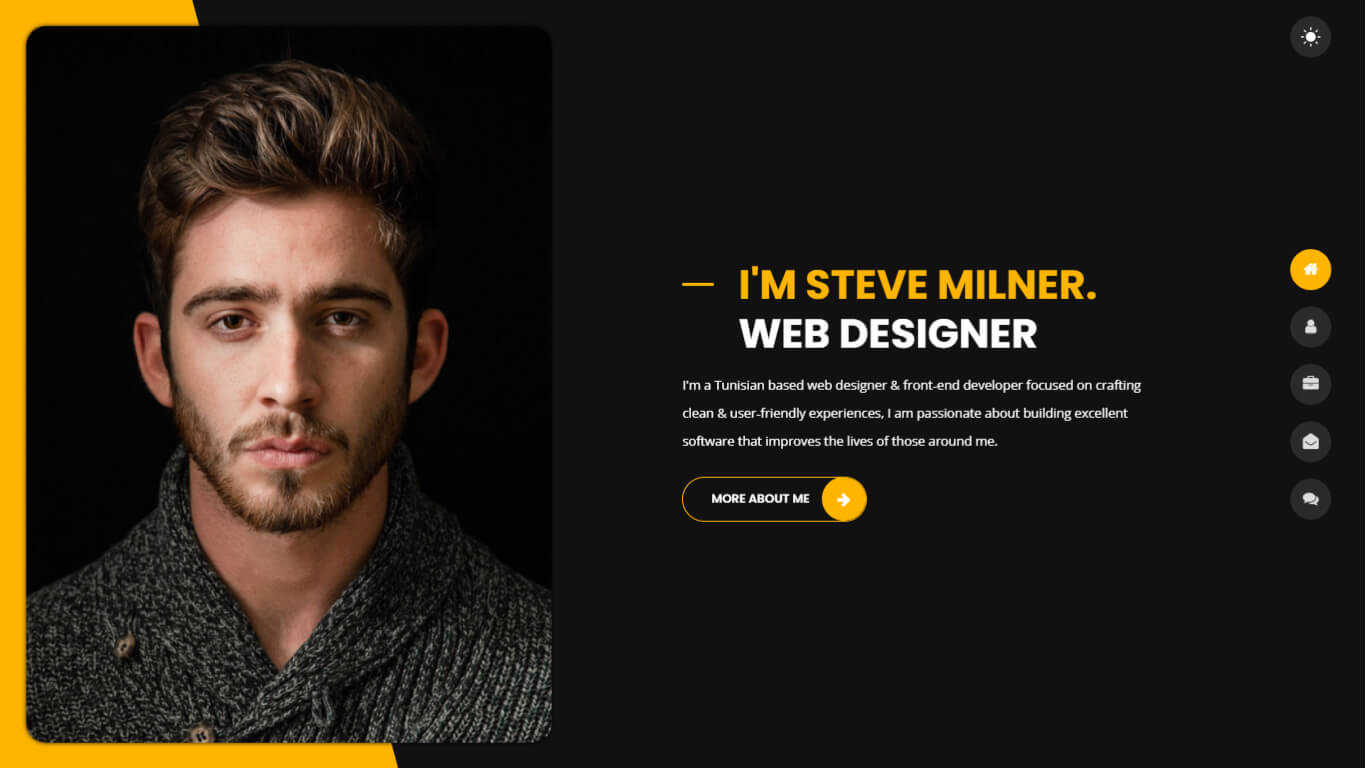
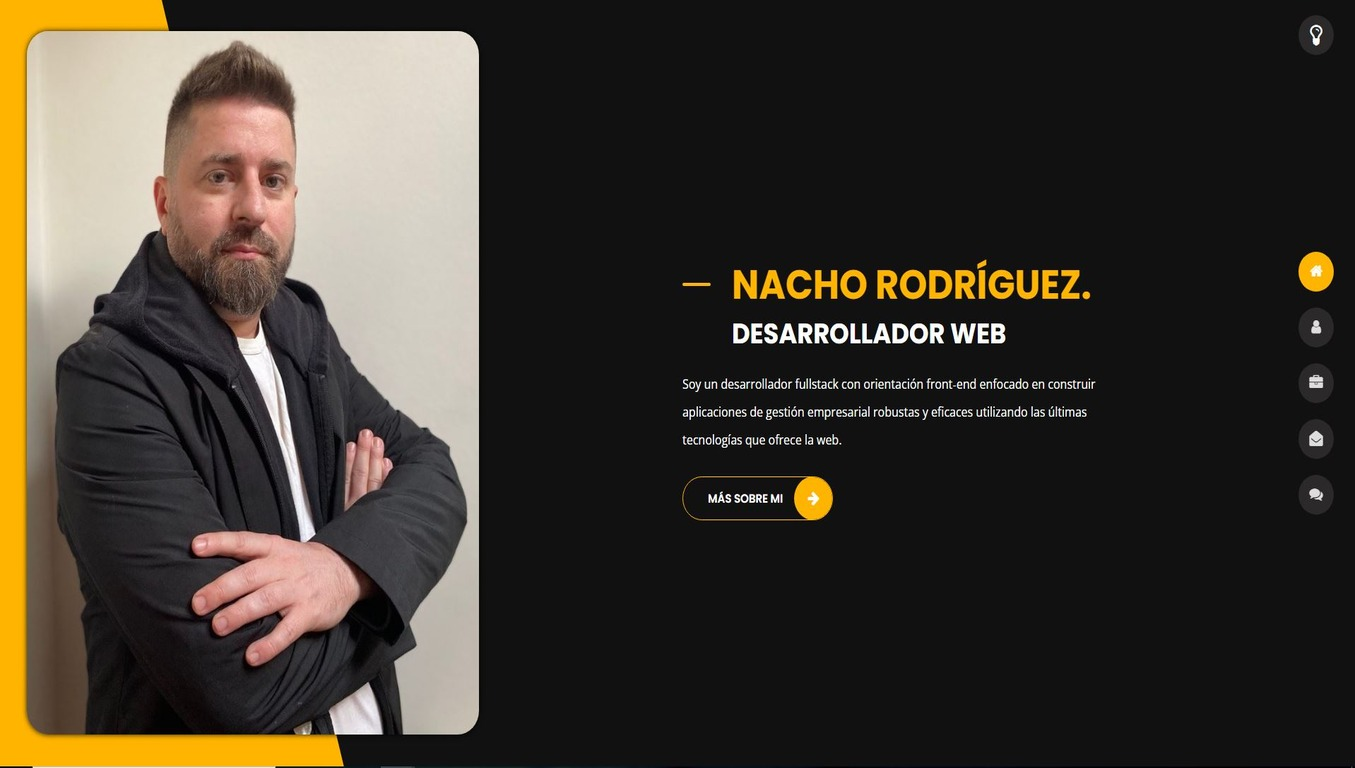
Despliegue en producción

diff --git a/src/views/MainPreview.vue b/src/views/MainPreview.vue
@@ -1,9 +1,9 @@
 <template>
   <div>
-    <section class="banner text-center">
+    <section class="text-center footer_copyright">
       <div class="content">
-        <h1>Tunis</h1>
-        <h2>Personal Portfolio VueJS 3 Template</h2>
+        <h1>Nacho Rodríguez</h1>
+        <h2>Portfolio personal</h2>
       </div>
     </section>
     <!-- {/* End .banner */} -->
@@ -23,7 +23,6 @@
               <div class="bg_container">
                 <router-link
                   :to="preview.routerPath"
-                  target="_blank"
                   rel="noreferrer"
                 >
                   <img
@@ -39,10 +38,9 @@
                   <router-link
                     class="btn"
                     :to="preview.routerPath"
-                    target="_blank"
                     rel="noreferrer"
                   >
-                    view demo
+                    Elegir
                   </router-link>
                 </h6>
               </div>
@@ -53,42 +51,18 @@
     </section>
     <!-- {/* End .Demo */} -->
 
-    <footer>
-      <div class="go_purchase">
-        <h6 data-aos="fade-up" data-aos-duration="1200">
-          You are at the right step now
-        </h6>
-        <h3 data-aos="fade-up" data-aos-duration="1200" data-aos-delay="100">
-          Purchase Tunis & Build Your Faster
-          <span class="theme-color">VueJS 3</span> &amp;
-          <span class="theme-color">Bootstrap 5 </span> Based Portfolio
-          Template.
-        </h3>
-        <div data-aos="fade-up" data-aos-duration="1200" data-aos-delay="200">
-          <a
-            class="button"
-            href="https://themeforest.net/user/ib-themes/portfolio"
-            target="_blank"
-            rel="noreferrer"
-          >
-            <span class="button-text"> Purchase Now</span>
-            <span class="button-icon fa fa-arrow-right"></span>
-          </a>
-        </div>
-      </div>
-      <!-- {/* End go_purchase */} -->
-
+    <footer>      
       <div class="text-center footer_copyright">
-        <h6>Tunis - Personal Portfolio VueJS 3 Template</h6>
+        <h6>Este portfolio está desarrollado utilizando HTML, CSS, SASS, JavaScript y Vue3.js</h6>
         <h5>
-          &copy; {{ new Date().getFullYear() }} Designed with
-          <span class="heart">&#10084;</span> by
+          &copy; {{ new Date().getFullYear() }} Diseñado con
+          <span class="heart">&#10084;</span> por
           <a
-            href="https://themeforest.net/user/ib-themes"
+            href="https://nacho-rodriguez.com"
             target="_blank"
             rel="noreferrer"
           >
-            ib-themes.
+            nacho rodríguez.
           </a>
         </h5>
       </div>
@@ -99,20 +73,24 @@
 
 <script>
 export default {
+  name: "MainPreview",
+  meta: {
+      title: "Nacho Rodríguez || Portfolio",
+    },
   setup() {
     return {
       previewDemo: [
         {
           id: 1,
           img: require(`@/assets/images/intro/dark.jpg`),
-          title: "Dark Demo Portfolio",
+          title: "Portfolio fondo oscuro",
           routerPath: "/home-dark",
           delayAnimation: "0",
         },
         {
           id: 2,
           img: require(`@/assets/images/intro/light.jpg`),
-          title: "Light Demo Portfolio",
+          title: "Portfolio fondo claro",
           routerPath: "/home-light",
           delayAnimation: "50",
         },

diff --git a/src/views/HomeLight.vue b/src/views/HomeLight.vue
@@ -1,9 +1,10 @@
 <template>
   <main class="yellow">
-    <div className="demo-sticker" title="Swich Dark">
-      <a href="/">
-        <i className="fa fa-moon-o" aria-hidden="true"></i>
-      </a>
+    <div className="demo-sticker" title="Fondo Oscuro">
+      <a
+        ><router-link :to="{ name: 'HomeDark' }" rel="noreferrer">
+          <i className="fa fa-moon-o" aria-hidden="true"></i></router-link
+      ></a>
     </div>
     <!-- End switcher -->
 
@@ -105,8 +106,9 @@
                 Contacta conmigo !
               </h3>
               <p class="open-sans-font mb-4">
-                Puedes encontrarme a través de los siguientes medios. Siempre estoy abierto
-                a discutir sobre nuevos proyectos, ideas u oportunidades.
+                Puedes encontrarme a través de los siguientes medios. Siempre
+                estoy abierto a discutir sobre nuevos proyectos, ideas u
+                oportunidades.
               </p>
               <AddressInfo />
               <!-- {/* End Address */} -->
@@ -134,9 +136,9 @@
         </div>
         <div class="container">
           <!-- {/* Articles Starts */} -->
-          <div class="row pb-50">
+          <!-- <div class="row pb-50">
             <BlogInfo />
-          </div>
+          </div> -->
           <!-- {/* Articles Ends */} -->
         </div>
       </div>
@@ -151,17 +153,21 @@ import IndexMain from "@/components/about/IndexMain.vue";
 import AddressInfo from "@/components/AddressInfo.vue";
 import ContactInfo from "@/components/ContactInfo.vue";
 import SocialInfo from "@/components/SocialInfo.vue";
-import BlogInfo from "@/components/blog/BlogInfo.vue";
+//import BlogInfo from "@/components/blog/BlogInfo.vue";
 import PortfolioInfo from "@/components/portfolio/PortfolioInfo.vue";
 
 export default {
+  name: "HomeLight",
+  meta: {
+      title: "Nacho Rodríguez || Portfolio",
+    },
   components: {
     HeroBanner,
     IndexMain,
     AddressInfo,
     ContactInfo,
     SocialInfo,
-    BlogInfo,
+    //BlogInfo,
     PortfolioInfo,
   },
   data() {

diff --git a/src/views/HomeDark.vue b/src/views/HomeDark.vue
@@ -1,9 +1,10 @@
 <template>
   <main class="yellow">
-    <div className="demo-sticker" title="Swich Light">
-      <a href="/home-light">
-        <i className="fa fa-lightbulb-o" aria-hidden="true"></i>
-      </a>
+    <div className="demo-sticker" title="Fondo Blanco">
+      <a
+        ><router-link :to="{ name: 'HomeLight' }" rel="noreferrer">
+          <i className="fa fa-lightbulb-o" aria-hidden="true"></i></router-link
+      ></a>      
     </div>
     <!-- End Sticker -->
 
@@ -134,9 +135,9 @@
         </div>
         <div class="container">
           <!-- {/* Articles Starts */} -->
-          <div class="row pb-50">
+          <!-- <div class="row pb-50">
             <BlogInfo />
-          </div>
+          </div> -->
           <!-- {/* Articles Ends */} -->
         </div>
       </div>
@@ -151,21 +152,32 @@ import IndexMain from "@/components/about/IndexMain.vue";
 import AddressInfo from "@/components/AddressInfo.vue";
 import ContactInfo from "@/components/ContactInfo.vue";
 import SocialInfo from "@/components/SocialInfo.vue";
-import BlogInfo from "@/components/blog/BlogInfo.vue";
+//import BlogInfo from "@/components/blog/BlogInfo.vue";
 import PortfolioInfo from "@/components/portfolio/PortfolioInfo.vue";
 
 export default {
+  name: "HomeDark",
+  meta: {
+      title: "Nacho Rodríguez || Portfolio",
+    },
   components: {
     HeroBanner,
     IndexMain,
     AddressInfo,
     ContactInfo,
     SocialInfo,
-    BlogInfo,
+    //BlogInfo,
     PortfolioInfo,
   },
   data() {
     return {};
   },
+  mounted() {
+    document.body.classList.add("dark");
+    document.body.classList.remove("light");
+  },
+  unmounted() {
+    document.body.classList.remove("light");
+  },  
 };
 </script>

diff --git a/src/router/index.js b/src/router/index.js
@@ -1,44 +1,44 @@
 import { createRouter, createWebHistory } from "vue-router";
-//import Preview from "../views/MainPreview.vue";
+import Preview from "../views/MainPreview.vue";
 import NotFound from "../views/PageNotFound.vue";
 
 const routes = [
- /*  {
+   {
     path: "/",
     name: "Preview",
     component: Preview,
     meta: {
-      title: "Preview || Tunis VueJS 3 Personal Portfolio Template",
+      title: "Nacho Rodríguez || Portfolio",
     },
-  }, */
+  },
   {
-    path: "/",
+    path: "/home-dark",
     name: "HomeDark",
-    component: () => import("../views/HomeDark.vue"),
     meta: {
-      title: "Nacho Rodríguez || Portfolio personal",
+      title: "Nacho Rodríguez || Portfolio",
     },
+    component: () => import("../views/HomeDark.vue")
   },
   {
     path: "/home-light",
     name: "HomeLight",
-    component: () => import("../views/HomeLight.vue"),
     meta: {
-      title: "Nacho Rodríguez || Portfolio personal",
+      title: "Nacho Rodríguez || Portfolio",
     },
+    component: () => import("../views/HomeLight.vue")    
   },
   {
     path: "/contact",
     component: () => import("@/components/portfolio/ContactForm.vue"),
     meta: {
-      title: "Nacho Rodríguez || Portfolio personal",
+      title: "Nacho Rodríguez || Portfolio",
     },
-  },    
+  },
   {
     path: "/:catchAll(.*)",
     component: NotFound,
     meta: {
-      title: "Not Found || Nacho Rodríguez - Portfolio personal",
+      title: "Not Found || Nacho Rodríguez - Portfolio",
     },
   },
 ];

diff --git a/src/assets/scss/main/_preview.scss b/src/assets/scss/main/_preview.scss
@@ -16,7 +16,7 @@ body {
 }
 .banner .content {
   background-color: #42b883;
-  padding: 50px 15px 30px;
+  padding: 40px 15px 30px;
   width: 100%;
   h2 {
     text-transform: capitalize;
@@ -70,7 +70,7 @@ body {
   background-color: #42b883 !important;
 }
 .demo {
-  padding: 175px 0 135px;
+  padding: 7.15% 0 7.15%;
   min-height: 560px;
   background: #ffffff;
   @media screen and (max-width: 768px) {
@@ -92,11 +92,7 @@ h2 {
 }
 .heading {
   font-size: 30px;
-  margin-bottom: 80px;
   font-weight: 700;
-}
-.anchor {
-  margin-bottom: 40px;
 }
 .footer_copyright {
   background-color: #222222;
@@ -144,46 +140,6 @@ h2 {
 
 .bg_container img {
   border-radius: 5px;
-}
-
-.go_purchase {
-  width: 100%;
-  height: auto;
-  clear: both;
-  float: left;
-  background-color: #389f71;
-  padding: 120px 20px;
-  text-align: center;
-  @media screen and (max-width: 768px) {
-    padding: 100px 20px 100px;
-  }
-  h6 {
-    color: #efefef;
-    margin-bottom: 10px;
-  }
-  h3 {
-    color: #fff;
-    max-width: 600px;
-    font-weight: 600;
-    margin: 0 auto;
-    font-size: 35px;
-    display: block;
-    padding: 10px 0 30px;
-    letter-spacing: 1px;
-    line-height: 45px;
-    text-transform: none;
-    @media (max-width: 768px) {
-      font-size: 28px;
-      line-height: 42px;
-    }
-
-    .theme-color {
-      color: var(--main-primary-color);
-    }
-  }
-  .button {
-    border: 1px solid var(--main-primary-color);
-  }
 }
 footer {
   display: flex;

diff --git a/src/views/PageNotFound.vue b/src/views/PageNotFound.vue
@@ -6,10 +6,10 @@
     >
       <div class="content">
         <h1>404!</h1>
-        <p>The page you are looking for could not be found.</p>
+        <p>La página que estás buscando no existe o no puede ser encontrada.</p>
 
         <div class="button">
-          <router-link to="/">BACK TO HOME</router-link>
+          <router-link to="/">REGRESA AL INICIO</router-link>
         </div>
         <!-- {/* End purchase_button */} -->
       </div>
@@ -20,6 +20,10 @@
 
 <script>
 export default {
+  name: "PageNotFound",
+  meta: {
+      title: "Nacho Rodríguez || Portfolio",
+    },
   setup() {
     return {
       image404: require(`@/assets/images/404.jpg`),
